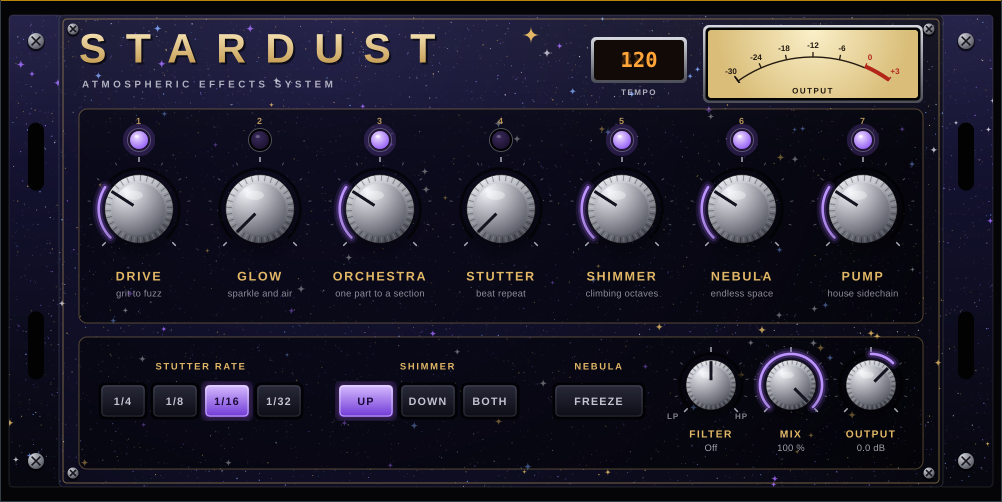
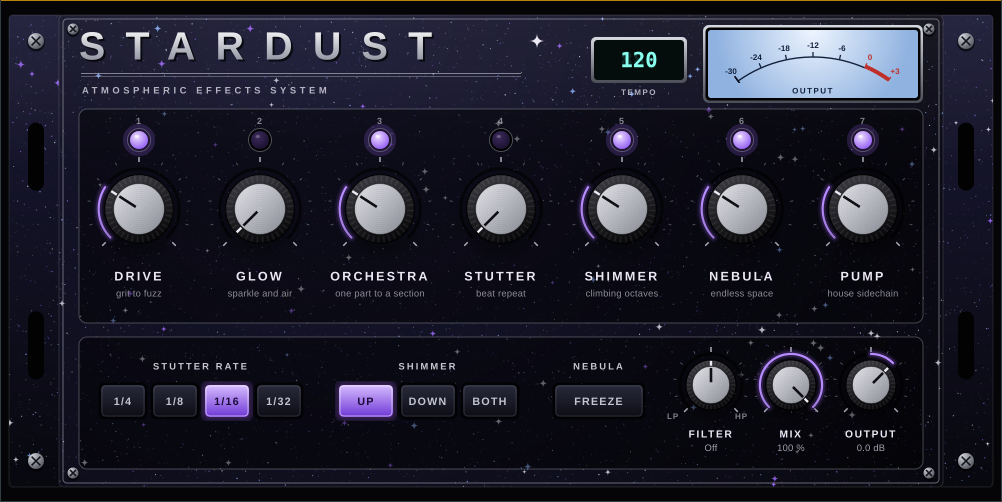
STARDUST: classic retro restyle, no gold
Chrome nameplate with double rule, cream lettering, black ribbed knobs with
brushed aluminium caps, blue-lit VU, teal VFD tempo, silver/blue/violet flakes.

Claude-Session: https://claude.ai/code/session_01S1GkKnh9gW7VsEYbak3Bcj

diff --git a/Stardust/Source/PluginEditor.cpp b/Stardust/Source/PluginEditor.cpp
@@ -22,19 +22,19 @@ void drawStar (juce::Graphics& g, juce::Point<float> c, float r, juce::Colour co
     g.fillPath (s);
 }
 
-// Midnight metal-flake: gold, silver and violet flecks, a few full stars.
+// Midnight metal-flake: silver, blue and violet flecks, a few full stars.
 void fillCosmic (juce::Graphics& g, juce::Rectangle<float> r, float corner, int seed)
 {
     juce::Path clip;
     clip.addRoundedRectangle (r, corner);
     juce::Graphics::ScopedSaveState save (g);
     g.reduceClipRegion (clip);
-    g.setGradientFill (juce::ColourGradient (juce::Colour (0xff1a1840), r.getX() + r.getWidth() * 0.3f, r.getY(),
-                                             juce::Colour (0xff07070f), r.getRight(), r.getBottom(), true));
+    g.setGradientFill (juce::ColourGradient (juce::Colour (0xff1b1a36), r.getX() + r.getWidth() * 0.3f, r.getY(),
+                                             juce::Colour (0xff08080f), r.getRight(), r.getBottom(), true));
     g.fillRect (r);
     juce::Random rnd (seed);
     const int flakes = juce::roundToInt (r.getWidth() * r.getHeight() / 60.0f);
-    const juce::Colour pal[4] = { st::gold, st::silver, st::violet, juce::Colour (0xff7fa8ff) };
+    const juce::Colour pal[4] = { st::silver, st::silver, st::violet, juce::Colour (0xff8fb4ff) };
     for (int i = 0; i < flakes; ++i)
     {
         const float x = r.getX() + rnd.nextFloat() * r.getWidth();
@@ -117,13 +117,13 @@ void Look::drawRotarySlider (juce::Graphics& g, int x, int y, int w, int h, floa
     if (std::abs (angle - from) > 0.01f)
     {
         arc.addCentredArc (c.x, c.y, ringR, ringR, 0.0f, juce::jmin (from, angle), juce::jmax (from, angle), true);
-        for (float wdt : { 12.0f, 7.0f })
+        for (float wdt : { 10.0f, 6.0f })
         {
-            g.setColour (violet.withAlpha (wdt > 10.0f ? 0.12f : 0.25f));
+            g.setColour (violet.withAlpha (wdt > 8.0f ? 0.08f : 0.18f));
             g.strokePath (arc, juce::PathStrokeType (wdt, juce::PathStrokeType::curved, juce::PathStrokeType::rounded));
         }
-        g.setColour (violet.brighter (0.4f));
-        g.strokePath (arc, juce::PathStrokeType (2.6f, juce::PathStrokeType::curved, juce::PathStrokeType::rounded));
+        g.setColour (violet.brighter (0.3f));
+        g.strokePath (arc, juce::PathStrokeType (2.2f, juce::PathStrokeType::curved, juce::PathStrokeType::rounded));
     }
 
     // shadow
@@ -131,30 +131,37 @@ void Look::drawRotarySlider (juce::Graphics& g, int x, int y, int w, int h, floa
                                              juce::Colours::transparentBlack, c.x, c.y + body * 1.6f, true));
     g.fillEllipse (c.x - body * 1.3f, c.y - body * 0.9f, body * 2.6f, body * 2.6f);
 
-    // knurled chrome skirt
-    g.setGradientFill (juce::ColourGradient (juce::Colour (0xffeceef4), c.x - body * 0.5f, c.y - body,
-                                             juce::Colour (0xff3d3f4a), c.x + body * 0.4f, c.y + body, false));
+    // black ribbed body
+    g.setGradientFill (juce::ColourGradient (juce::Colour (0xff3a3a40), c.x - body * 0.4f, c.y - body,
+                                             juce::Colour (0xff060608), c.x + body * 0.4f, c.y + body, false));
     g.fillEllipse (c.x - body, c.y - body, body * 2.0f, body * 2.0f);
-    for (int i = 0; i < 60; ++i)
+    for (int i = 0; i < 36; ++i)
     {
-        const float a = angle + juce::MathConstants<float>::twoPi * (float) i / 60.0f;
-        g.setColour ((i % 2 == 0 ? juce::Colours::black : juce::Colours::white).withAlpha (i % 2 == 0 ? 0.30f : 0.15f));
-        g.drawLine ({ c.getPointOnCircumference (body * 0.82f, a), c.getPointOnCircumference (body * 0.99f, a) }, 1.1f);
+        const float a = angle + juce::MathConstants<float>::twoPi * (float) i / 36.0f;
+        g.setColour (juce::Colours::white.withAlpha (0.07f));
+        g.drawLine ({ c.getPointOnCircumference (body * 0.80f, a), c.getPointOnCircumference (body * 0.99f, a) }, 1.6f);
     }
-    g.setColour (juce::Colours::black.withAlpha (0.7f));
+    g.setColour (juce::Colours::black);
     g.drawEllipse (c.x - body, c.y - body, body * 2.0f, body * 2.0f, 1.0f);
 
-    // polished dome
-    const float cap = body * 0.76f;
-    g.setGradientFill (juce::ColourGradient (juce::Colour (0xfff7f8fc), c.x - cap * 0.5f, c.y - cap * 0.7f,
-                                             juce::Colour (0xff50525e), c.x + cap * 0.6f, c.y + cap, true));
+    // brushed aluminium cap
+    const float cap = body * 0.74f;
+    g.setGradientFill (juce::ColourGradient (juce::Colour (0xffe6e7ec), c.x - cap, c.y - cap,
+                                             juce::Colour (0xff8a8c96), c.x + cap, c.y + cap, false));
     g.fillEllipse (c.x - cap, c.y - cap, cap * 2.0f, cap * 2.0f);
-    g.setColour (juce::Colours::white.withAlpha (0.35f));
-    g.fillEllipse (c.x - cap * 0.55f, c.y - cap * 0.7f, cap * 0.7f, cap * 0.35f);
+    for (float rr = cap * 0.15f; rr < cap; rr += 2.0f)   // concentric machining rings
+    {
+        g.setColour (juce::Colours::black.withAlpha (0.05f));
+        g.drawEllipse (c.x - rr, c.y - rr, rr * 2.0f, rr * 2.0f, 0.6f);
+    }
+    g.setColour (juce::Colours::black.withAlpha (0.45f));
+    g.drawEllipse (c.x - cap, c.y - cap, cap * 2.0f, cap * 2.0f, 1.0f);
 
-    // pointer
-    g.setColour (juce::Colour (0xff141420));
-    g.drawLine ({ c.getPointOnCircumference (cap * 0.25f, angle), c.getPointOnCircumference (body * 0.95f, angle) }, 3.0f);
+    // index line across the cap and onto the body
+    g.setColour (juce::Colour (0xff101014));
+    g.drawLine ({ c.getPointOnCircumference (cap * 0.15f, angle), c.getPointOnCircumference (cap * 0.92f, angle) }, 2.6f);
+    g.setColour (cream);
+    g.drawLine ({ c.getPointOnCircumference (cap * 1.04f, angle), c.getPointOnCircumference (body * 0.96f, angle) }, 2.4f);
 }
 
 void Key::paintButton (juce::Graphics& g, bool over, bool down)
@@ -325,27 +332,29 @@ void StardustEditor::drawFace (juce::Graphics& g)
     fillCosmic (g, f, 5.0f, 9);
     g.setColour (juce::Colours::white.withAlpha (0.12f));
     g.drawRoundedRectangle (f, 5.0f, 1.0f);
-    g.setColour (gold.withAlpha (0.5f));
+    g.setColour (silver.withAlpha (0.45f));
     g.drawRoundedRectangle (f.reduced (4.0f), 4.0f, 1.0f);
 
-    // nameplate
-    g.setFont (font (46.0f, true, 0.42f));
-    g.setColour (juce::Colours::black.withAlpha (0.6f));
-    g.drawText ("STARDUST", topPanel.getX() + 2, 24, 460, 50, juce::Justification::centredLeft);
-    g.setGradientFill (juce::ColourGradient (juce::Colour (0xfffff0c8), 0.0f, 24.0f, juce::Colour (0xffb88a3a), 0.0f, 72.0f, false));
-    g.drawText ("STARDUST", topPanel.getX(), 22, 460, 50, juce::Justification::centredLeft);
-    drawStar (g, { (float) topPanel.getX() + 452.0f, 34.0f }, 9.0f, gold);
-    drawStar (g, { (float) topPanel.getX() + 468.0f, 52.0f }, 5.0f, silver.withAlpha (0.8f));
-    g.setFont (font (11.0f, true, 0.32f));
-    g.setColour (silver.withAlpha (0.8f));
-    g.drawText ("ATMOSPHERIC EFFECTS SYSTEM", topPanel.getX() + 3, 76, 460, 14, juce::Justification::centredLeft);
+    // nameplate: chrome lettering, double rule underneath
+    g.setFont (font (44.0f, true, 0.46f));
+    g.setColour (juce::Colours::black.withAlpha (0.7f));
+    g.drawText ("STARDUST", topPanel.getX() + 2, 22, 470, 50, juce::Justification::centredLeft);
+    g.setGradientFill (juce::ColourGradient (juce::Colour (0xffffffff), 0.0f, 26.0f, juce::Colour (0xff7d8090), 0.0f, 66.0f, false));
+    g.drawText ("STARDUST", topPanel.getX(), 20, 470, 50, juce::Justification::centredLeft);
+    g.setColour (silver.withAlpha (0.55f));
+    g.fillRect ((float) topPanel.getX() + 2.0f, 72.0f, 440.0f, 1.0f);
+    g.fillRect ((float) topPanel.getX() + 2.0f, 75.0f, 440.0f, 0.6f);
+    drawStar (g, { (float) topPanel.getX() + 458.0f, 40.0f }, 8.0f, cream);
+    g.setFont (font (10.5f, true, 0.34f));
+    g.setColour (cream.withAlpha (0.75f));
+    g.drawText ("ATMOSPHERIC EFFECTS SYSTEM", topPanel.getX() + 3, 82, 460, 14, juce::Justification::centredLeft);
 
     // panels
     for (auto r : { topPanel, bottomPanel })
     {
         g.setColour (juce::Colours::black.withAlpha (0.45f));
         g.fillRoundedRectangle (r.toFloat(), 8.0f);
-        g.setColour (gold.withAlpha (0.35f));
+        g.setColour (silver.withAlpha (0.30f));
         g.drawRoundedRectangle (r.toFloat(), 8.0f, 1.0f);
     }
 
@@ -359,10 +368,10 @@ void StardustEditor::drawFace (juce::Graphics& g)
         g.setColour (silver.withAlpha (0.35f));
         g.drawEllipse (l.expanded (2.5f), 1.0f);
         g.setFont (font (10.0f, true, 0.1f));
-        g.setColour (gold.withAlpha (0.8f));
+        g.setColour (silver.withAlpha (0.6f));
         g.drawText (juce::String (i + 1), k.getX(), topPanel.getY() + 6, k.getWidth(), 12, juce::Justification::centred);
-        g.setFont (font (14.0f, true, 0.12f));
-        g.setColour (gold);
+        g.setFont (font (14.0f, true, 0.16f));
+        g.setColour (cream);
         g.drawText (fxNames[i], k.getX() - 30, k.getBottom() + 4, k.getWidth() + 60, 18, juce::Justification::centred);
         g.setFont (font (10.5f, false, 0.02f));
         g.setColour (silver.withAlpha (0.65f));
@@ -370,8 +379,8 @@ void StardustEditor::drawFace (juce::Graphics& g)
     }
 
     // bottom row legends
-    g.setFont (font (10.5f, true, 0.16f));
-    g.setColour (gold);
+    g.setFont (font (10.5f, true, 0.2f));
+    g.setColour (cream.withAlpha (0.85f));
     g.drawText ("STUTTER RATE", rateKeys[0]->getX(), bottomPanel.getY() + 22, 208, 14, juce::Justification::centred);
     g.drawText ("SHIMMER", dirKeys[0]->getX(), bottomPanel.getY() + 22, 186, 14, juce::Justification::centred);
     g.drawText ("NEBULA", freeze.getX(), bottomPanel.getY() + 22, freeze.getWidth(), 14, juce::Justification::centred);
@@ -380,8 +389,8 @@ void StardustEditor::drawFace (juce::Graphics& g)
     for (int i = 0; i < 3; ++i)
     {
         const auto k = small[i]->getBounds();
-        g.setColour (gold);
-        g.setFont (font (11.5f, true, 0.12f));
+        g.setColour (cream);
+        g.setFont (font (11.5f, true, 0.14f));
         g.drawText (smallNames[i], k.getX() - 20, k.getBottom() + 2, k.getWidth() + 40, 14, juce::Justification::centred);
     }
     g.setFont (font (9.0f, true, 0.1f));
@@ -394,7 +403,7 @@ void StardustEditor::drawFace (juce::Graphics& g)
         const auto b = bpmBox.toFloat();
         g.setGradientFill (juce::ColourGradient (juce::Colour (0xffd8dae2), 0.0f, b.getY(), juce::Colour (0xff4a4c56), 0.0f, b.getBottom(), false));
         g.fillRoundedRectangle (b, 5.0f);
-        g.setColour (juce::Colour (0xff120a06));
+        g.setColour (juce::Colour (0xff050c0c));
         g.fillRoundedRectangle (b.reduced (3.0f), 3.5f);
         g.setFont (font (9.0f, true, 0.16f));
         g.setColour (silver.withAlpha (0.8f));
@@ -409,12 +418,12 @@ void StardustEditor::drawFace (juce::Graphics& g)
         g.fillRoundedRectangle (outer, 6.0f);
         g.setColour (juce::Colours::black);
         g.fillRoundedRectangle (outer.reduced (2.5f), 4.5f);
-        g.setGradientFill (juce::ColourGradient (juce::Colour (0xfffbf0c9), v.face.getCentreX(), v.face.getY(),
-                                                 juce::Colour (0xffd9bd78), v.face.getCentreX(), v.face.getBottom() + 30.0f, true));
+        g.setGradientFill (juce::ColourGradient (juce::Colour (0xffeef5ff), v.face.getCentreX(), v.face.getY(),
+                                                 juce::Colour (0xff8fb2e0), v.face.getCentreX(), v.face.getBottom() + 30.0f, true));
         g.fillRoundedRectangle (v.face, 3.0f);
         juce::Graphics::ScopedSaveState save (g);
         g.reduceClipRegion (v.face.toNearestInt());
-        const juce::Colour vin (0xff231a10), red (0xffb3261a);
+        const juce::Colour vin (0xff13213d), red (0xffc0302a);
         const float redFrom = 5.0f / 6.0f;
         juce::Path arc, hot;
         arc.addCentredArc (v.pivot.x, v.pivot.y, v.radius, v.radius, 0.0f, v.angle (0.0f), v.angle (redFrom), true);
@@ -476,9 +485,11 @@ void StardustEditor::paint (juce::Graphics& g)
 
     // tempo in amber digits
     g.setFont (juce::Font (juce::FontOptions (juce::Font::getDefaultMonospacedFontName(), 24.0f, juce::Font::bold)));
-    g.setColour (juce::Colour (0xffff9a2e).withAlpha (0.18f));
+    g.setColour (juce::Colour (0xff5ff2d6).withAlpha (0.12f));
     g.drawText ("888", bpmBox.reduced (6, 4), juce::Justification::centred);
-    g.setColour (juce::Colour (0xffffa53a));
+    g.setColour (juce::Colour (0xff5ff2d6).withAlpha (0.25f));
+    g.drawText (juce::String (bpmShown).paddedLeft ('0', 3), bpmBox.reduced (6, 4).translated (0, 1), juce::Justification::centred);
+    g.setColour (juce::Colour (0xff8afff0));
     g.drawText (juce::String (bpmShown).paddedLeft ('0', 3), bpmBox.reduced (6, 4), juce::Justification::centred);
 
     // needle
@@ -489,7 +500,7 @@ void StardustEditor::paint (juce::Graphics& g)
         const float a = v.angle (needle);
         g.setColour (juce::Colours::black.withAlpha (0.18f));
         g.drawLine ({ v.pivot.translated (2.0f, 2.0f), v.pivot.getPointOnCircumference (v.radius + 6.0f, a).translated (2.0f, 2.0f) }, 2.0f);
-        g.setColour (juce::Colour (0xff1a1410));
+        g.setColour (juce::Colour (0xff0f1526));
         g.drawLine ({ v.pivot, v.pivot.getPointOnCircumference (v.radius + 6.0f, a) }, 1.6f);
     }
 }

diff --git a/Stardust/Source/PluginEditor.h b/Stardust/Source/PluginEditor.h
@@ -5,7 +5,7 @@
 namespace st
 {
 const juce::Colour space  { 0xff0a0b18 };
-const juce::Colour gold   { 0xffe2b866 };
+const juce::Colour cream  { 0xffece8f4 };
 const juce::Colour silver { 0xffd6d8e4 };
 const juce::Colour violet { 0xffa36bff };
 const juce::Colour dim    { 0xff8a88a8 };
